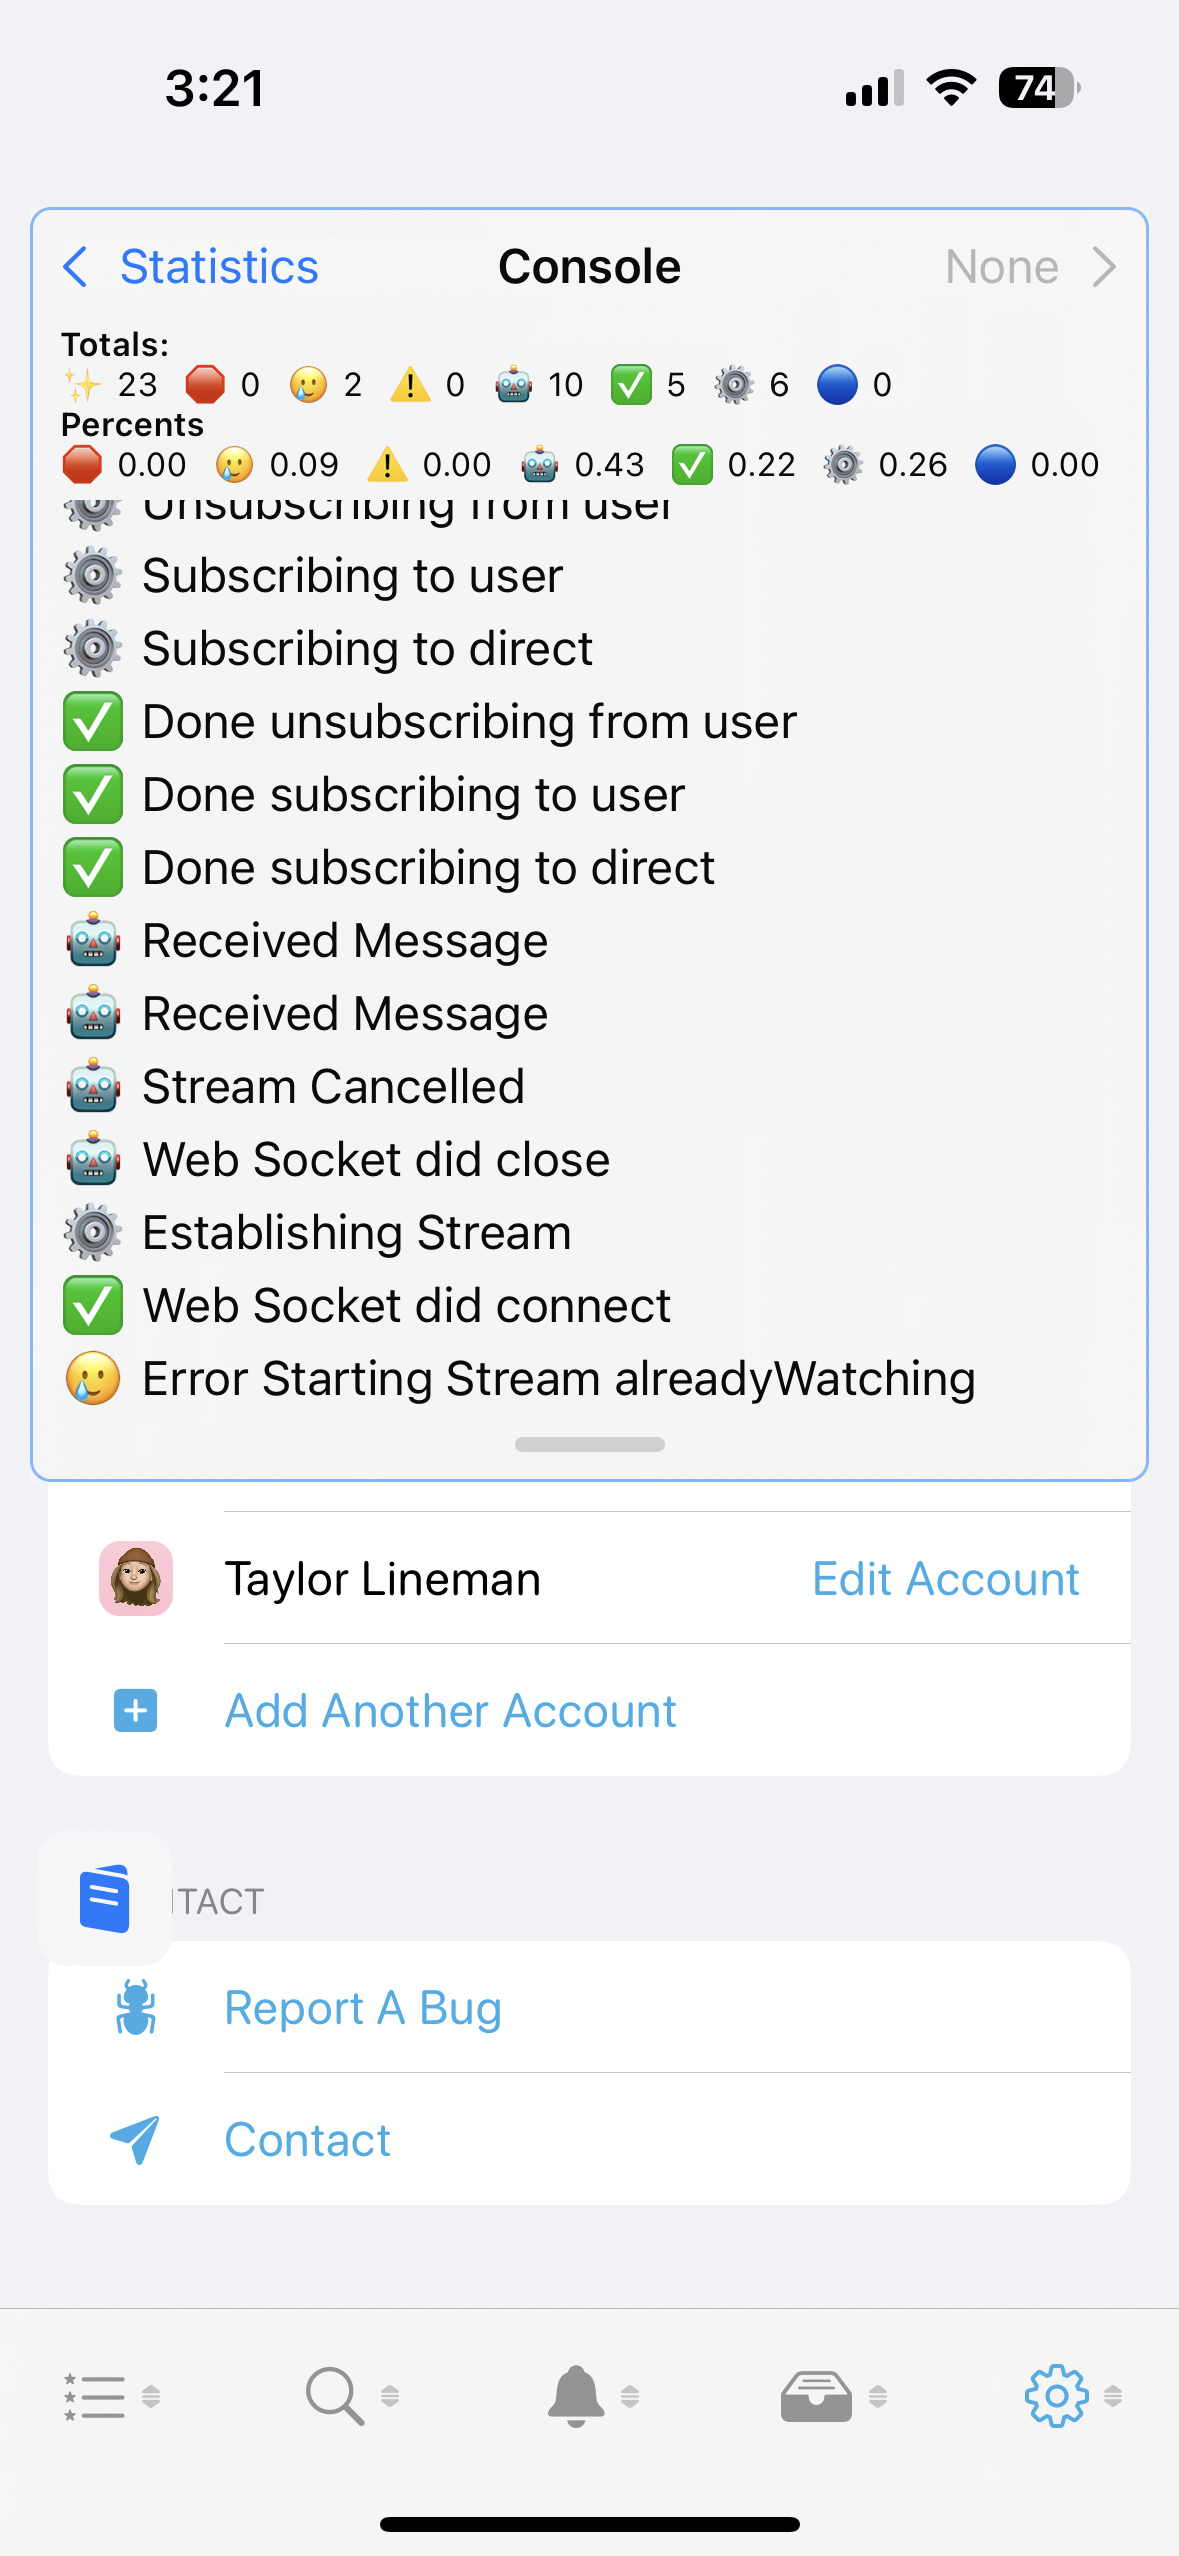
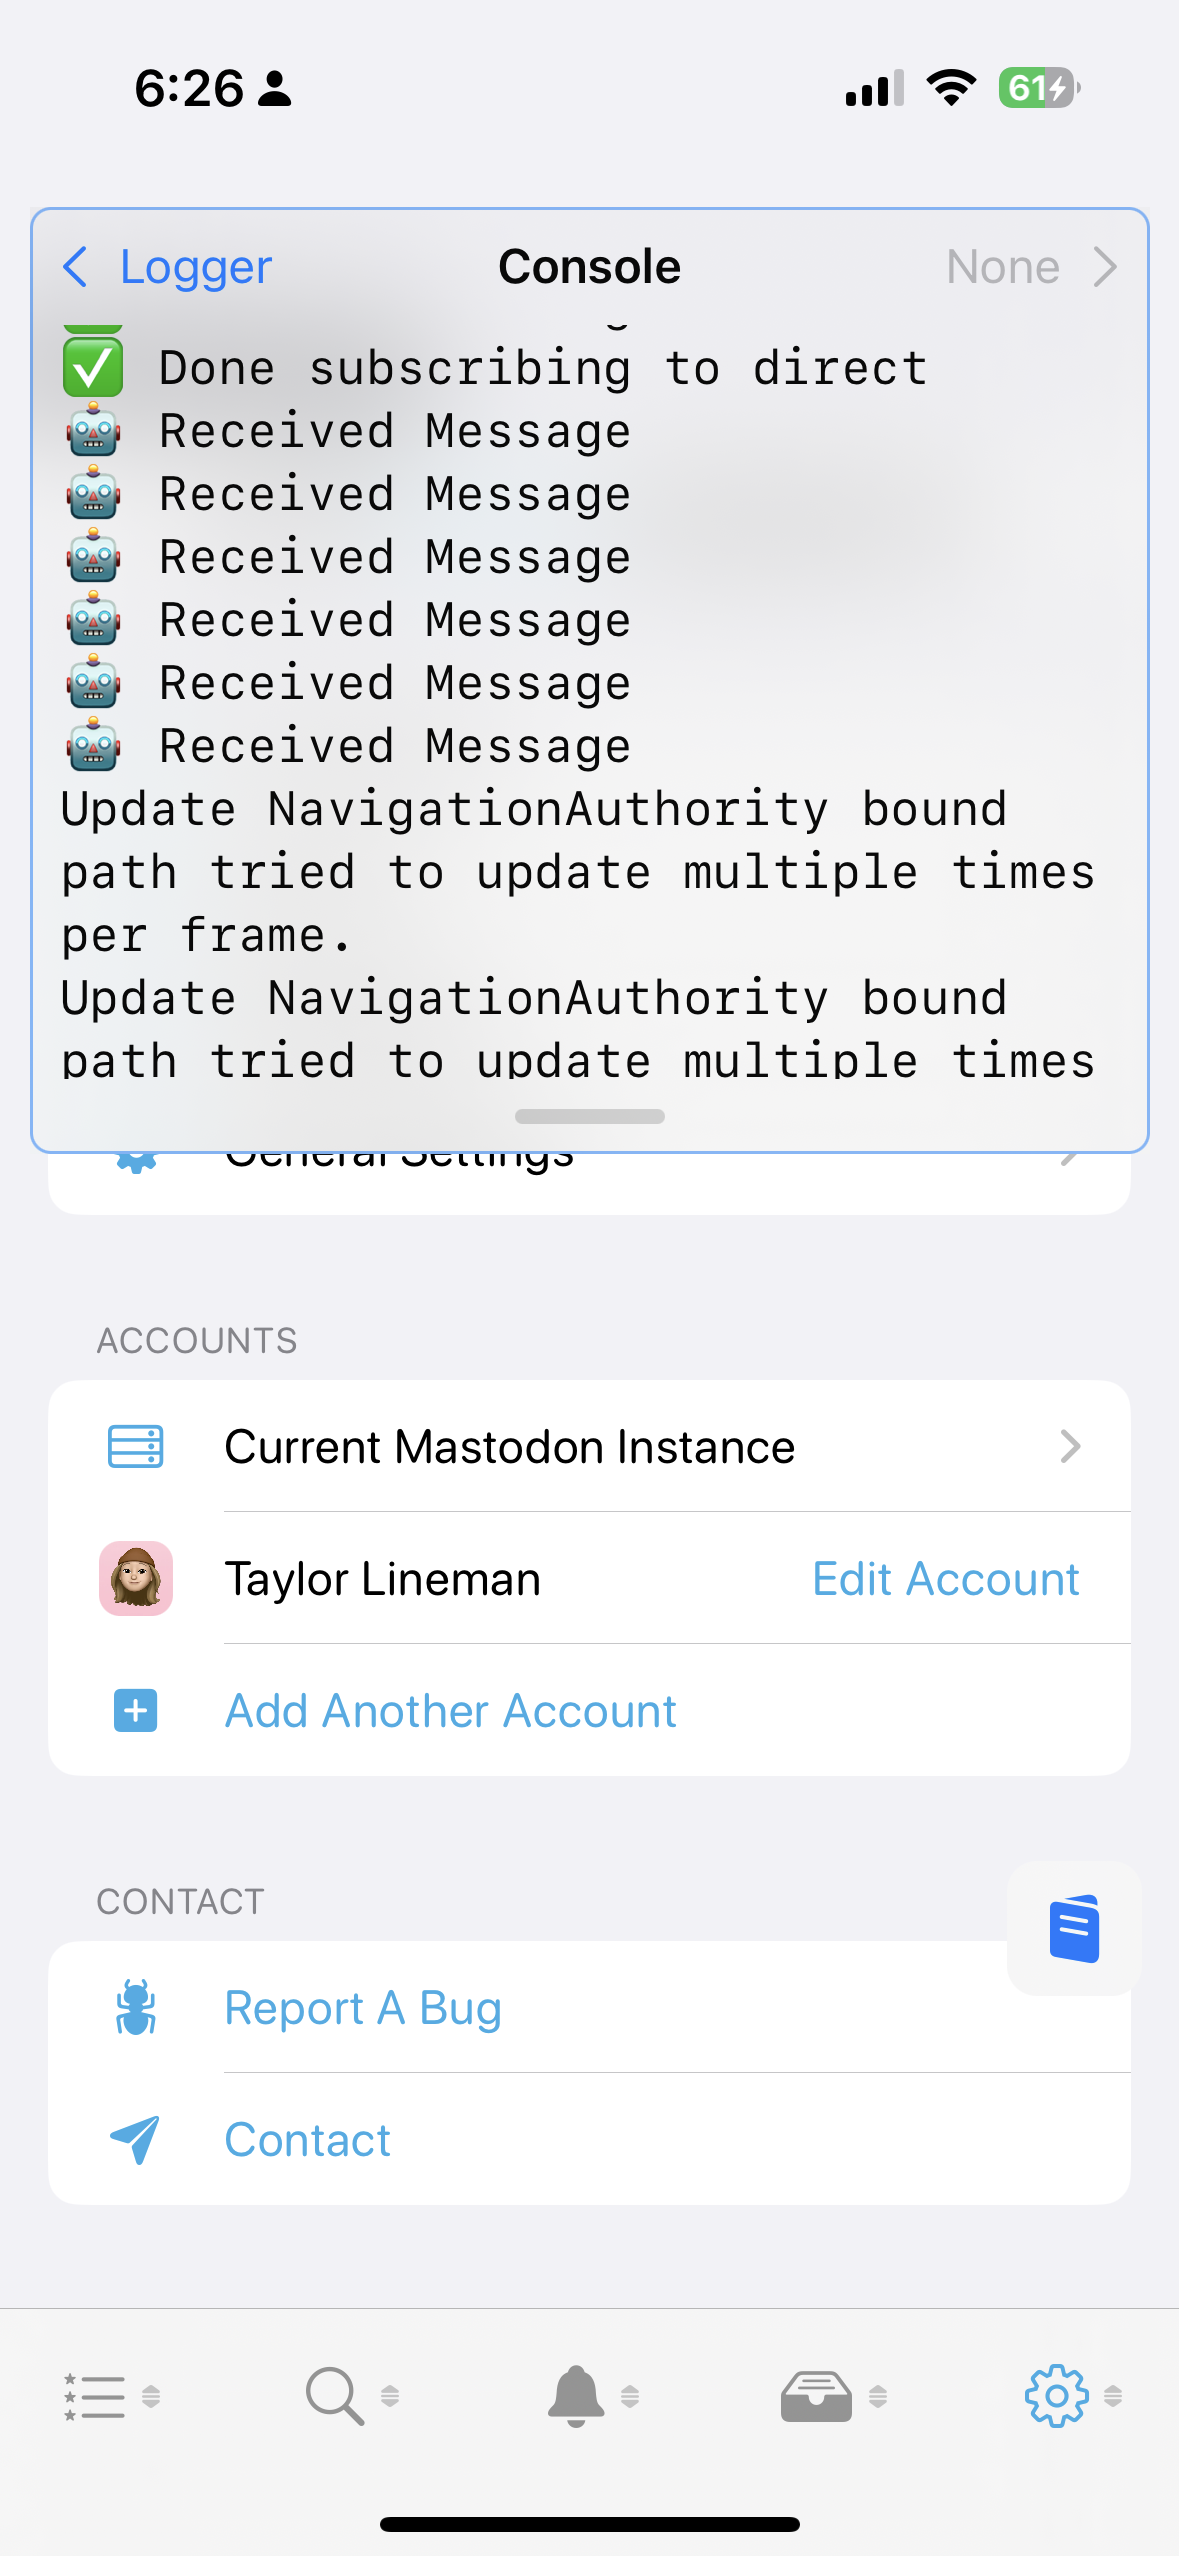
Added screenshots

diff --git a/Sources/HydrogenReporter/Backbone/Logger.swift b/Sources/HydrogenReporter/Backbone/Logger.swift
@@ -67,6 +67,22 @@ public class Logger: ObservableObject {
         let dateFormat: String
         
         let historyLength: Int
+        let sendHydrogenLogsToReporterConsole: Bool
+        
+        public static let defaultConfig: LoggerConfig =  .init(applicationName: "Hydrogen Reporter", defaultLevel: .info, defaultComplexity: .simple, leadingEmoji: "⚫", locale: "en_US", timezone: "utc", dateFormat: "yyyy-MM-dd'T'HH:mm:ss.SSSXXXXX", historyLength: 100000, sendHydrogenLogsToReporterConsole: false)
+
+        public init(applicationName: String, defaultLevel: LogLevel, defaultComplexity: LogComplexity, leadingEmoji: String, locale: String = "en_US", timezone: String = "en_US", dateFormat: String = "yyyy-MM-dd'T'HH:mm:ss.SSSXXXXX", historyLength: Int = 100000, sendHydrogenLogsToReporterConsole: Bool = true) {
+            self.applicationName = applicationName
+            self.defaultLevel = defaultLevel
+            self.defaultComplexity = defaultComplexity
+            self.leadingEmoji = leadingEmoji
+            self.locale = locale
+            self.timezone = timezone
+            self.dateFormat = dateFormat
+            self.historyLength = historyLength
+            self.sendHydrogenLogsToReporterConsole = sendHydrogenLogsToReporterConsole
+        }
+        
         
         func dateFormatter() -> DateFormatter {
             let formatter = DateFormatter()
@@ -76,8 +92,6 @@ public class Logger: ObservableObject {
             formatter.dateFormat = dateFormat
             return formatter
         }
-        
-        public static let defaultConfig: LoggerConfig =  .init(applicationName: "Hydrogen Reporter", defaultLevel: .info, defaultComplexity: .simple, leadingEmoji: "⚫", locale: "en_US", timezone: "utc", dateFormat: "yyyy-MM-dd'T'HH:mm:ss.SSSXXXXX", historyLength: 100000)
     }
     
     public struct LogItem: CustomStringConvertible, Identifiable {
@@ -125,58 +139,56 @@ public class Logger: ObservableObject {
     }
     
     // MARK: - Singleton
-    static let shared = Logger()
+    public static let shared = Logger()
 
     private var config: LoggerConfig = .defaultConfig
     
     @Published var logs: [LogItem] = []
     var consolePipe = Pipe()
     @Published var consoleOutput: String = ""
-
-    init() {
-        setupStdoutIntercept()
-    }
+    var isInterceptingConsoleOutput: Bool = false
     
-    deinit {
-        consolePipe.fileHandleForWriting.closeFile()
+    init() {
+        
+        setupStdoutIntercept()
     }
         
     func log(_ item: LogItem) {
-        appendLog(log: item)
-        
         switch item.level {
         case .fatal:
             let desc = item.complexDescription
-            consoleOutput.append(desc)
+            appendLog(log: item, description: desc)
             os_log(.fault, "%{public}s", desc)
             Swift.fatalError(item.complexDescription)
         case .error:
             let desc = item.description
-            consoleOutput.append(desc)
+            appendLog(log: item, description: desc)
             os_log(.error, "%{public}s", desc)
         case .warn, .working, .success:
             let desc = item.description
-            consoleOutput.append(desc)
+            appendLog(log: item, description: desc)
             os_log(.default, "%{public}s", desc)
         case .info:
             let desc = item.description
-            consoleOutput.append(desc)
+            appendLog(log: item, description: desc)
             os_log(.info, "%{public}s", desc)
         case .debug:
             let desc = item.description
-            consoleOutput.append(desc)
+            appendLog(log: item, description: desc)
             os_log(.debug, "%{public}s", desc)
         }
-        consoleOutput.append("\n")
     }
         
-    private func appendLog(log: LogItem) {
+    private func appendLog(log: LogItem, description: String) {
         DispatchQueue.main.async {
             self.logs.append(log)
             
             if self.logs.count > self.config.historyLength {
                 self.logs.removeFirst()
             }
+            
+            self.consoleOutput.append(description)
+            self.consoleOutput.append("\n")
         }
     }
     
@@ -184,6 +196,7 @@ public class Logger: ObservableObject {
     /// https://phatbl.at/2019/01/08/intercepting-stdout-in-swift.html
     /// Set up an intercept for the Stdout which redirects it here to then be printed to the console visible to Hydrogen
     private func setupStdoutIntercept() {
+        isInterceptingConsoleOutput = true
         dup2(consolePipe.fileHandleForWriting.fileDescriptor, FileHandle.standardOutput.fileDescriptor)
         
         consolePipe.fileHandleForReading.waitForDataInBackgroundAndNotify()

diff --git a/README.md b/README.md
@@ -161,5 +161,18 @@ LOG("Purchasing Error:", error, level: .error)
 LOG("Passed section 3", level: .debug)
 ```
 
+## Reporter Screenshots
+### Logger
+![Screenshot of the Logger](./assets/logger.png)
+
+### View Inspector
+![Screenshot of the Inspector](./assets/inspector.jpeg)
+
+### Statistics View
+![Screenshot of the Logger](./assets/statistics.png)
+
+### Console
+![Screenshot of the Console](./assets/console.png)
+
 # Contact
 Any questions that you have can be directed towards the GitHub issues or my [Mastodon account](https://mastodon.social/@TaylorLineman)!
